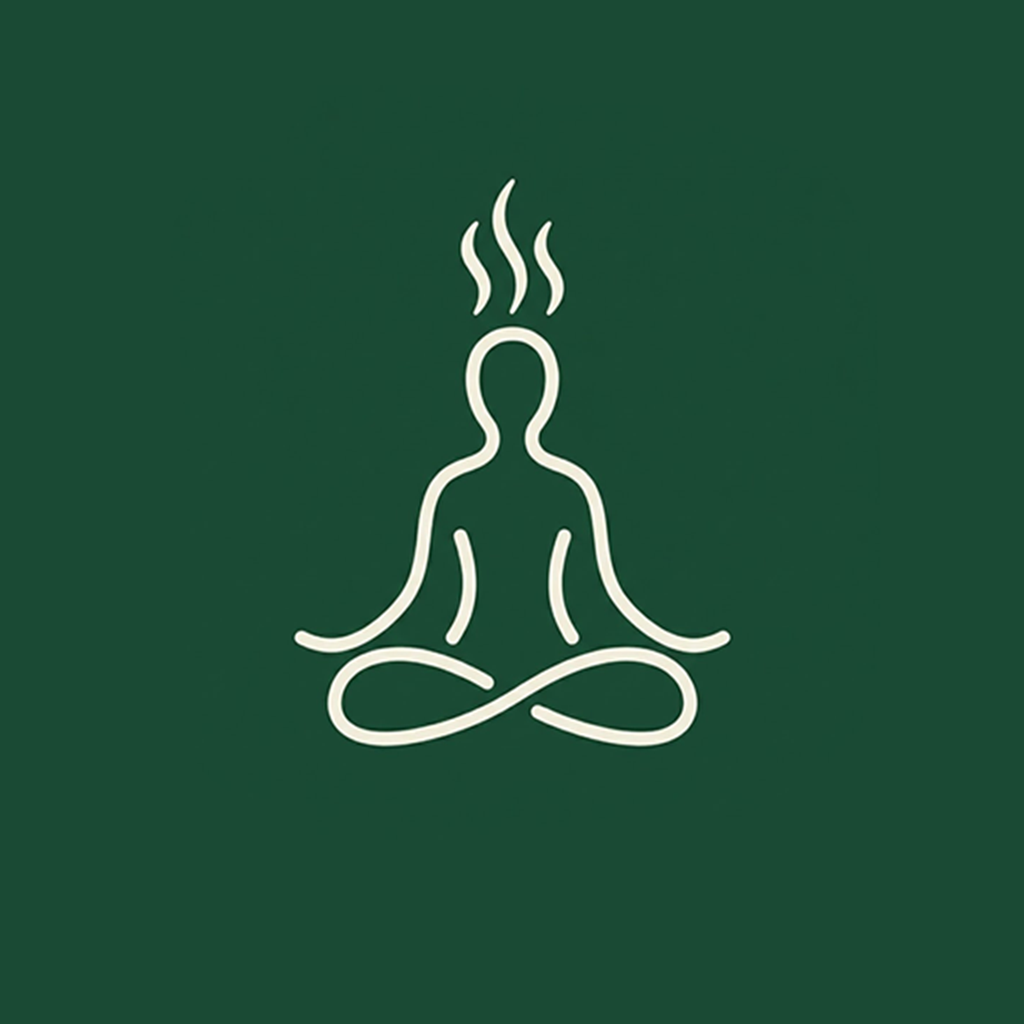
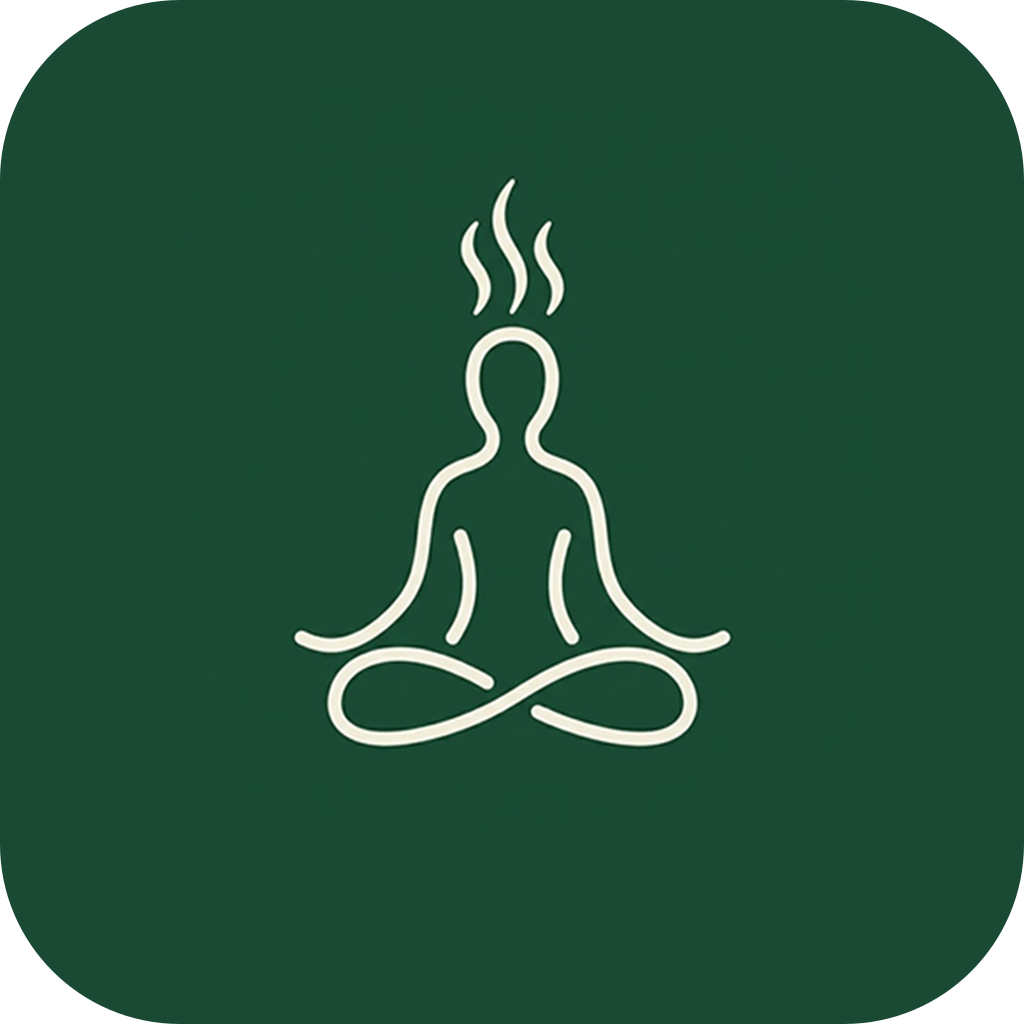
feat: 优化PWA启动画面

diff --git a/scripts/add-border-radius.js b/scripts/add-border-radius.js
@@ -1,0 +1,61 @@
+const sharp = require('sharp');
+const path = require('path');
+
+// 配置
+const borderRadius = 180; // 圆角大小
+const inputIcon = path.join(__dirname, '../public/icon.png');
+const outputIcon = path.join(__dirname, '../public/icon-rounded.png');
+
+async function addBorderRadius() {
+  try {
+    // 获取图片尺寸
+    const metadata = await sharp(inputIcon).metadata();
+    const { width, height } = metadata;
+
+    // 创建圆角蒙版
+    const svg = `
+      <svg width="${width}" height="${height}">
+        <rect x="0" y="0" width="${width}" height="${height}" rx="${borderRadius}" ry="${borderRadius}" fill="white"/>
+      </svg>
+    `;
+
+    // 处理图片
+    await sharp(inputIcon)
+      .resize(width, height) // 确保尺寸正确
+      .composite([
+        {
+          input: Buffer.from(svg),
+          blend: 'dest-in'
+        }
+      ])
+      .png()
+      .toFile(outputIcon);
+
+    console.log(`✅ 圆角图标已生成: ${outputIcon}`);
+    console.log(`   尺寸: ${width}x${height}, 圆角: ${borderRadius}px`);
+
+    // 同时生成apple-icon的圆角版本
+    const inputApple = path.join(__dirname, '../public/apple-icon.png');
+    const outputApple = path.join(__dirname, '../public/apple-icon-rounded.png');
+
+    const appleMeta = await sharp(inputApple).metadata();
+    await sharp(inputApple)
+      .resize(appleMeta.width, appleMeta.height)
+      .composite([
+        {
+          input: Buffer.from(svg.replace(/width="\d+"/, `width="${appleMeta.width}"`).replace(/height="\d+"/, `height="${appleMeta.height}"`)),
+          blend: 'dest-in'
+        }
+      ])
+      .png()
+      .toFile(outputApple);
+
+    console.log(`✅ Apple图标圆角已生成: ${outputApple}`);
+
+  } catch (error) {
+    console.error('❌ 错误:', error.message);
+    process.exit(1);
+  }
+}
+
+addBorderRadius();
